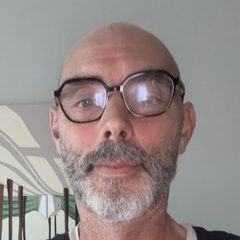
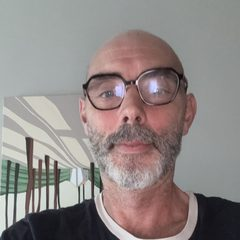
Admin photo: wider crop
Claude-Session: https://claude.ai/code/session_01D2zjvEireYBesUt7HqWxMd

diff --git a/Login.dc.html b/Login.dc.html
@@ -210,7 +210,7 @@ class Component extends DCLogic {
       ['amz', 'RN', 'rafael.nogueira', 'Rafael Nogueira', 'Coordenador de Operações do Prevfogo na Amazônia Legal', 'Ibama · Prevfogo · Manaus', '9 states',
         'Coordinates fire prevention and brigade operations across the Legal Amazon. Hires and trains brigades before the dry season, plans prescribed burning, follows INPE hotspots and fire events daily, and sends federal brigades to indigenous lands and protected areas.', 'https://images.unsplash.com/photo-1633116182264-d7cc0aba12d4?w=240&h=240&fit=crop&crop=faces&auto=format&q=70'],
       ['admin', 'NR', 'nuno.rogerio', 'Nuno Rogerio', 'Platform administrator', 'Forest Fire Watch', 'All countries and regions',
-        'Oversees the platform across every country: user access, data feeds and model health. Supports the commanders when a fire crosses a border.', 'assets/people/nuno.jpg']
+        'Oversees the platform across every country: user access, data feeds and model health. Supports the commanders when a fire crosses a border.', 'assets/people/nuno.jpg?v=2']
     ];
     const PH = [['forest-1.webp', 'Mari Potter'], ['forest-2.webp', 'Ivan Dimitrov'], ['forest-3.webp', 'Olena Bohovyk']];   // dark canopies only, so white text stays readable
     if (this._bg0 === undefined) this._bg0 = Math.floor(Math.random() * PH.length);
